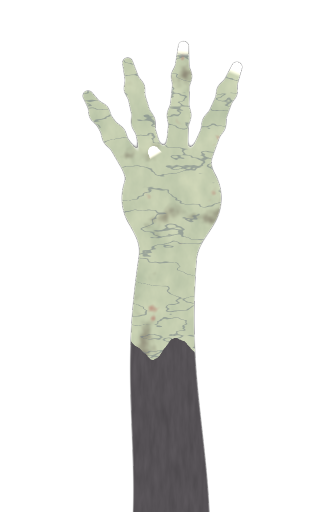
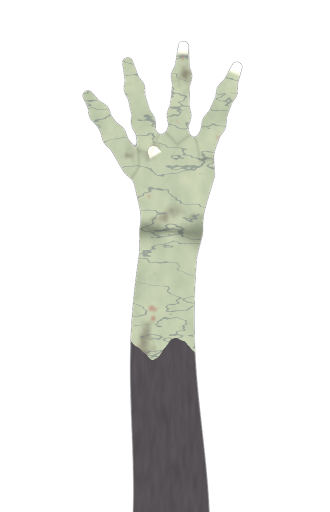
Halloween fase 27: manos de zombie (15) y tunel de calaveras (18) con relieve
Manos: falanges, nudillos, palma, tendones y pliegues como tubos con
volumen; la tumba ilumina como luz puntual desde abajo.
Tunel: el relieve de la pared salia casi plano (escala 0.004); ahora
craneo, cejas, pomulos, cuencas y dientes. Arregla la base T/B de la
pared izquierda y la boveda (costura entre las dos).

Claude-Session: https://claude.ai/code/session_01NVP2u1MWPb16oy8b6RCqty

diff --git a/td/tools/bake_plates_zombies.py b/td/tools/bake_plates_zombies.py
@@ -52,6 +52,7 @@ float sdBox(vec2 p, vec2 b){ vec2 d=abs(p)-b; return length(max(d,0.))+min(max(d
 mat2 rot(float a){ float c=cos(a),s=sin(a); return mat2(c,-s,s,c); }
 float seg(vec2 p, vec2 a, vec2 b){ vec2 pa=p-a, ba=b-a; float h=clamp(dot(pa,ba)/dot(ba,ba),0.,1.); return length(pa-ba*h); }
 vec2 cone(vec2 p, vec2 a, vec2 b, float ra, float rb){ vec2 pa=p-a, ba=b-a; float h=clamp(dot(pa,ba)/dot(ba,ba),0.,1.); return vec2(length(pa-ba*h)-mix(ra,rb,h),h); }
+float infl(float d, float r0){ float k=clamp(-d/r0,0.,1.); return r0*sqrt(max(1.-(1.-k)*(1.-k),0.)); }
 float smin(float a,float b,float k){ float h=clamp(.5+.5*(b-a)/k,0.,1.); return mix(b,a,h)-k*h*(1.-h); }
 
 // agujeros de las tumbas (igual en el shader): x, y del agujero
@@ -141,9 +142,13 @@ H hand(vec2 p, float open){
   H r; r.d=1e3; r.h=0.; r.alb=vec3(0.); r.bone=0.;
   // antebrazo que sale de abajo
   vec2 fa=cone(p+vec2(0.02*sin(p.y*5.),0.),vec2(0.0,-0.25),vec2(0.02,0.58),0.115,0.085);
-  float palm=length((p-vec2(0.02,0.70))/vec2(0.15,0.15))-1.; palm*=0.14;
+  // palma: trapecio redondeado, angosto en la muñeca y ancho en los nudillos
+  float palm=cone(p,vec2(0.02,0.62),vec2(0.025,0.77),0.085,0.125).x;
   float d=smin(fa.x,palm,0.05);
   float best=d; float fh=0.;
+  // relieve (fase 27): cada pieza es un tubo con su propio volumen
+  float th3=max(infl(fa.x,0.10)*0.85, infl(palm,0.05)*1.25+0.012*infl(palm,0.10)/0.10);   // palma plana con canto redondo
+  float hard=min(fa.x,palm);                 // sin mezclar: la diferencia marca los pliegues
   // dedos: 3 falanges cada uno; en garra se doblan hacia adelante
   for(int i=0;i<5;i++){
     float fi=float(i);
@@ -165,8 +170,20 @@ H hand(vec2 p, float open){
     vec2 s1=cone(p,b0,j1,w,w*0.85), s2=cone(p,j1,j2,w*0.85,w*0.72), s3=cone(p,j2,j3,w*0.70,w*0.45);
     float fd=min(min(s1.x,s2.x),s3.x);
     // nudillos hinchados
-    fd=smin(fd,length(p-j1)-w*1.05,0.01); fd=smin(fd,length(p-j2)-w*0.9,0.01);
+    float k1=length(p-j1)-w*1.05, k2=length(p-j2)-w*0.9;
+    fd=smin(fd,k1,0.01); fd=smin(fd,k2,0.01);
     best=smin(best,fd,0.025);
+    hard=min(hard,min(min(s1.x,s2.x),min(s3.x,min(k1,k2))));
+    // en garra las falanges dobladas quedan delante de la palma
+    float lift=curl*0.05;
+    float fh1=infl(s1.x,w)+lift*0.3, fh2=infl(s2.x,w*0.85)+lift*0.8, fh3=infl(s3.x,w*0.70)+lift;
+    float kn=max(infl(k1,w*1.05)+lift*0.5, infl(k2,w*0.9)+lift*0.9);
+    // pliegues de la piel en las articulaciones
+    float crease=exp(-pow(s2.y*L*0.33/0.010,2.))*step(s2.x,0.)+exp(-pow(s3.y*L*0.25/0.008,2.))*step(s3.x,0.);
+    th3=max(th3, max(max(fh1,fh2),max(fh3,kn))-0.004*crease);
+    // tendones del dorso hacia cada dedo
+    float tend=seg(p,vec2(0.02+(fi-1.8)*0.02,0.60),b0);
+    th3+=0.006*exp(-pow(tend/0.010,2.))*step(palm,0.)*(th>0.5?0.:1.);
     // punta: hueso que asoma
     if(s3.x<0.&&s3.y>0.65) r.bone=max(r.bone,smoothstep(0.65,0.9,s3.y)*step(0.5,h21(vec2(fi,3.)))*0.7);
   }
@@ -181,10 +198,12 @@ H hand(vec2 p, float open){
     skin=mix(skin,vec3(0.08,0.10,0.12),vein*0.6);
     skin=mix(skin,vec3(0.80,0.76,0.66),r.bone);
     r.alb=skin;
-    r.h=sqrt(depth)*0.08+rot1*0.012-vein*0.006;
+    r.h=max(th3,infl(best,0.04)*1.56)+rot1*0.006-vein*0.004+0.002*gn(p*180.);
+    // oclusion entre dedos y en la muñeca: donde la mezcla rellena
+    r.alb*=1.-0.55*smoothstep(0.0,0.014,hard-best);
     // manga rota en el antebrazo
     float sleeve=p.y-(0.22+0.05*fbm(vec2(p.x*20.,1.),3)+0.03*sin(p.x*40.));
-    if(sleeve<0.){ vec3 cloth=vec3(0.05,0.045,0.05)*(0.6+0.6*fbm(p*vec2(60.,12.),4)); r.alb=cloth; r.h=sqrt(depth)*0.09+0.015*sin(p.x*90.); }
+    if(sleeve<0.){ vec3 cloth=vec3(0.05,0.045,0.05)*(0.6+0.6*fbm(p*vec2(60.,12.),4)); r.alb=cloth; r.h=infl(fa.x-0.006,0.11)*0.9+0.006*sin(p.x*90.+3.*fbm(p*8.,3))+0.01*fbm(p*vec2(30.,8.),4); }
   }
   return r;
 }
@@ -208,7 +227,7 @@ void main(){
   float e=0.003;
   float hx=hand(p+vec2(e,0.),open).h-hand(p-vec2(e,0.),open).h;
   float hy=hand(p+vec2(0.,e),open).h-hand(p-vec2(0.,e),open).h;
-  vec3 n=normalize(vec3(-hx/(2.*e)*0.5,-hy/(2.*e)*0.5,1.));
+  vec3 n=normalize(vec3(-hx/(2.*e),-hy/(2.*e),1.));
   fc=vec4(n.xy*0.5+0.5, h.bone, a);
 }
 """

diff --git a/td/tools/bake_plates_catacumba.py b/td/tools/bake_plates_catacumba.py
@@ -68,7 +68,7 @@ S wall(vec2 uv){
   // relleno entre huesos: fragmentos y tierra
   float frag=pfbm(uv*vec2(60.,60.),60.,4);
   s.alb=mix(vec3(0.02,0.018,0.015),vec3(0.22,0.19,0.14),smoothstep(0.55,0.75,frag)*0.8);
-  s.h=smoothstep(0.55,0.75,frag)*0.15;
+  s.h=smoothstep(0.55,0.75,frag)*0.07;
   float rowH=0.25;                     // alto de hilera (calavera + huesos)
   float ry=floor(uv.y/rowH);
   float ly=fract(uv.y/rowH);
@@ -104,8 +104,23 @@ S wall(vec2 uv){
     vec3 bone=mix(vec3(0.45,0.38,0.27),vec3(0.70,0.64,0.50),st);
     bone=mix(bone,vec3(0.18,0.14,0.09),smoothstep(0.6,0.8,pfbm(uv*12.+3.,12.,4))*0.7);   // mugre
     bone*=0.75+0.35*h21(vec2(mod(ci,n),mod(ry,4.))+2.);
-    s.alb=bone; s.h=sqrt(dep)*0.8+st*0.05;
-    if(hole<0.){ s.alb=vec3(0.015,0.012,0.01); s.h=-0.3; }
+    // relieve (fase 27): craneo en cupula, arco de las cejas, pomulos,
+    // cuencas hondas con borde suave y dientes uno por uno
+    vec2 qs=q*vec2(0.80,0.92);
+    float h=sqrt(dep)*0.8+st*0.05;
+    h+=0.10*exp(-pow((qs.y-0.10)/0.035,2.))*smoothstep(0.30,0.12,abs(qs.x));
+    h+=0.12*exp(-dot((vec2(abs(qs.x),qs.y)-vec2(0.21,-0.09))/0.07,(vec2(abs(qs.x),qs.y)-vec2(0.21,-0.09))/0.07));
+    float tb=abs(qs.y+0.225)-0.035;
+    if(tb<0.&&abs(qs.x)<0.15){
+      float tx=fract(qs.x/0.05+0.5)-0.5;
+      h+=0.06*(1.-tx*tx*4.)-0.02;
+      bone=mix(bone,vec3(0.06,0.05,0.04),smoothstep(0.38,0.48,abs(tx))*0.8);
+    }
+    // oclusion alrededor de los agujeros
+    bone*=0.45+0.55*smoothstep(-0.01,0.06,hole);
+    s.alb=bone;
+    s.h=mix(h,-0.35,smoothstep(0.02,-0.03,hole));
+    if(hole<0.){ s.alb=vec3(0.015,0.012,0.01); }
     if(eye<0.) s.eye=1.;
   }
   return s;
@@ -143,14 +158,14 @@ void main(){
     if(plate==0){ fc=vec4(pow(clamp(s.alb*2.,0.,1.),vec3(1./2.2)), 1.); return; }
     float hx=wall(fract(uv+vec2(e,0.))).h-wall(fract(uv-vec2(e,0.))).h;
     float hy=wall(fract(uv+vec2(0.,e))).h-wall(fract(uv-vec2(0.,e))).h;
-    vec3 n=normalize(vec3(-hx/(2.*e)*0.004,-hy/(2.*e)*0.004,1.));
+    vec3 n=normalize(vec3(-hx/(2.*e)*0.035,-hy/(2.*e)*0.035,1.));   // fase 27: relieve de verdad (antes 0.004, casi plano)
     fc=vec4(n.xy*0.5+0.5, s.eye, 1.); return;
   }
   S s=floorT(uv);
   if(plate==2){ fc=vec4(pow(clamp(s.alb*2.,0.,1.),vec3(1./2.2)), 1.); return; }
   float hx=floorT(fract(uv+vec2(e,0.))).h-floorT(fract(uv-vec2(e,0.))).h;
   float hy=floorT(fract(uv+vec2(0.,e))).h-floorT(fract(uv-vec2(0.,e))).h;
-  vec3 n=normalize(vec3(-hx/(2.*e)*0.004,-hy/(2.*e)*0.004,1.));
+  vec3 n=normalize(vec3(-hx/(2.*e)*0.02,-hy/(2.*e)*0.02,1.));
   fc=vec4(n.xy*0.5+0.5, 0., 1.);
 }
 """

diff --git a/docs/53_SETS_Y_HALLOWEEN.md b/docs/53_SETS_Y_HALLOWEEN.md
@@ -539,3 +539,12 @@ Mapa de alturas horneado (`height()` en `bake_plates_reloj.py`, lámina `4_relie
 - **Tormenta (09):** lámina nueva `4_arbol_relieve` (solo el recuadro del árbol, 600×500): tronco y ramas inflados como tubos con surcos de corteza (B = cavidad). El rayo ilumina el lado de las ramas que lo mira. La copa del tronco ahora termina en punta (antes se cortaba plana).
 - **Costo:** igual dentro del ruido de la medición en las dos escenas. **Reconstruir Todo:** láminas y atlas nuevos.
 
+## Fase 27: manos de zombie y túnel de calaveras con relieve (escenas 15 y 18)
+
+![Antes y ahora](img/manos_tunel_2d_vs_3d.jpg)
+
+- **Manos (15):** las láminas de relieve ya existían, pero eran una sola cúpula suave. Ahora cada falange, nudillo, la palma (un trapecio plano con canto redondo, antes un círculo) y el antebrazo son tubos con volumen propio. Hay tendones en el dorso, pliegues en las articulaciones y oclusión horneada entre los dedos. En garra, las falanges dobladas quedan delante de la palma. La tumba ilumina como una luz puntual desde abajo, con un poco de luz de canto.
+- **Túnel (18):** el relieve de la pared salía casi plano (la normal se escalaba por 0,004). Ahora la calavera tiene cúpula, arco de las cejas, pómulos, cuencas hondas con borde suave y dientes uno por uno, con oclusión alrededor de los agujeros. Las antorchas la recorren de costado.
+- **Error corregido en el túnel:** en la pared izquierda y la bóveda, la base de la normal (T/B) estaba invertida. Con el relieve casi plano no se notaba; con el nuevo aparecía una costura entre la pared y la bóveda.
+- **Costo:** igual dentro del ruido. **Reconstruir Todo:** láminas nuevas.
+

diff --git a/CLAUDE.md b/CLAUDE.md
@@ -39,3 +39,4 @@ Trabajar en una rama; hacer **commit y push**. Desde el 21 de octubre de 2026: *
 - **Fase 24** (rama `claude/halloween-f24-momia-esqueleto-3d`, sobre f23): huesos con volumen (17) y vendas como tubos (12).
 - **Fase 25** (rama `claude/halloween-f25-bosque-fantasmas-3d`, sobre f24): relieve en el bosque (28, capa cercana) y en el pasillo (07, normal en el mundo).
 - **Fase 26** (rama `claude/halloween-f26-castillo-tormenta-3d`, sobre f25): relieve en el castillo (04, normal dentro de `3_ventanas`) y en el árbol de la tormenta (09); el relámpago ilumina por su lado.
+- **Fase 27** (rama `claude/halloween-f27-manos-tunel-3d`, sobre f26): relieve de manos (15: falanges, nudillos, tendones) y calaveras del túnel (18), más el arreglo de la base de la normal del túnel.
